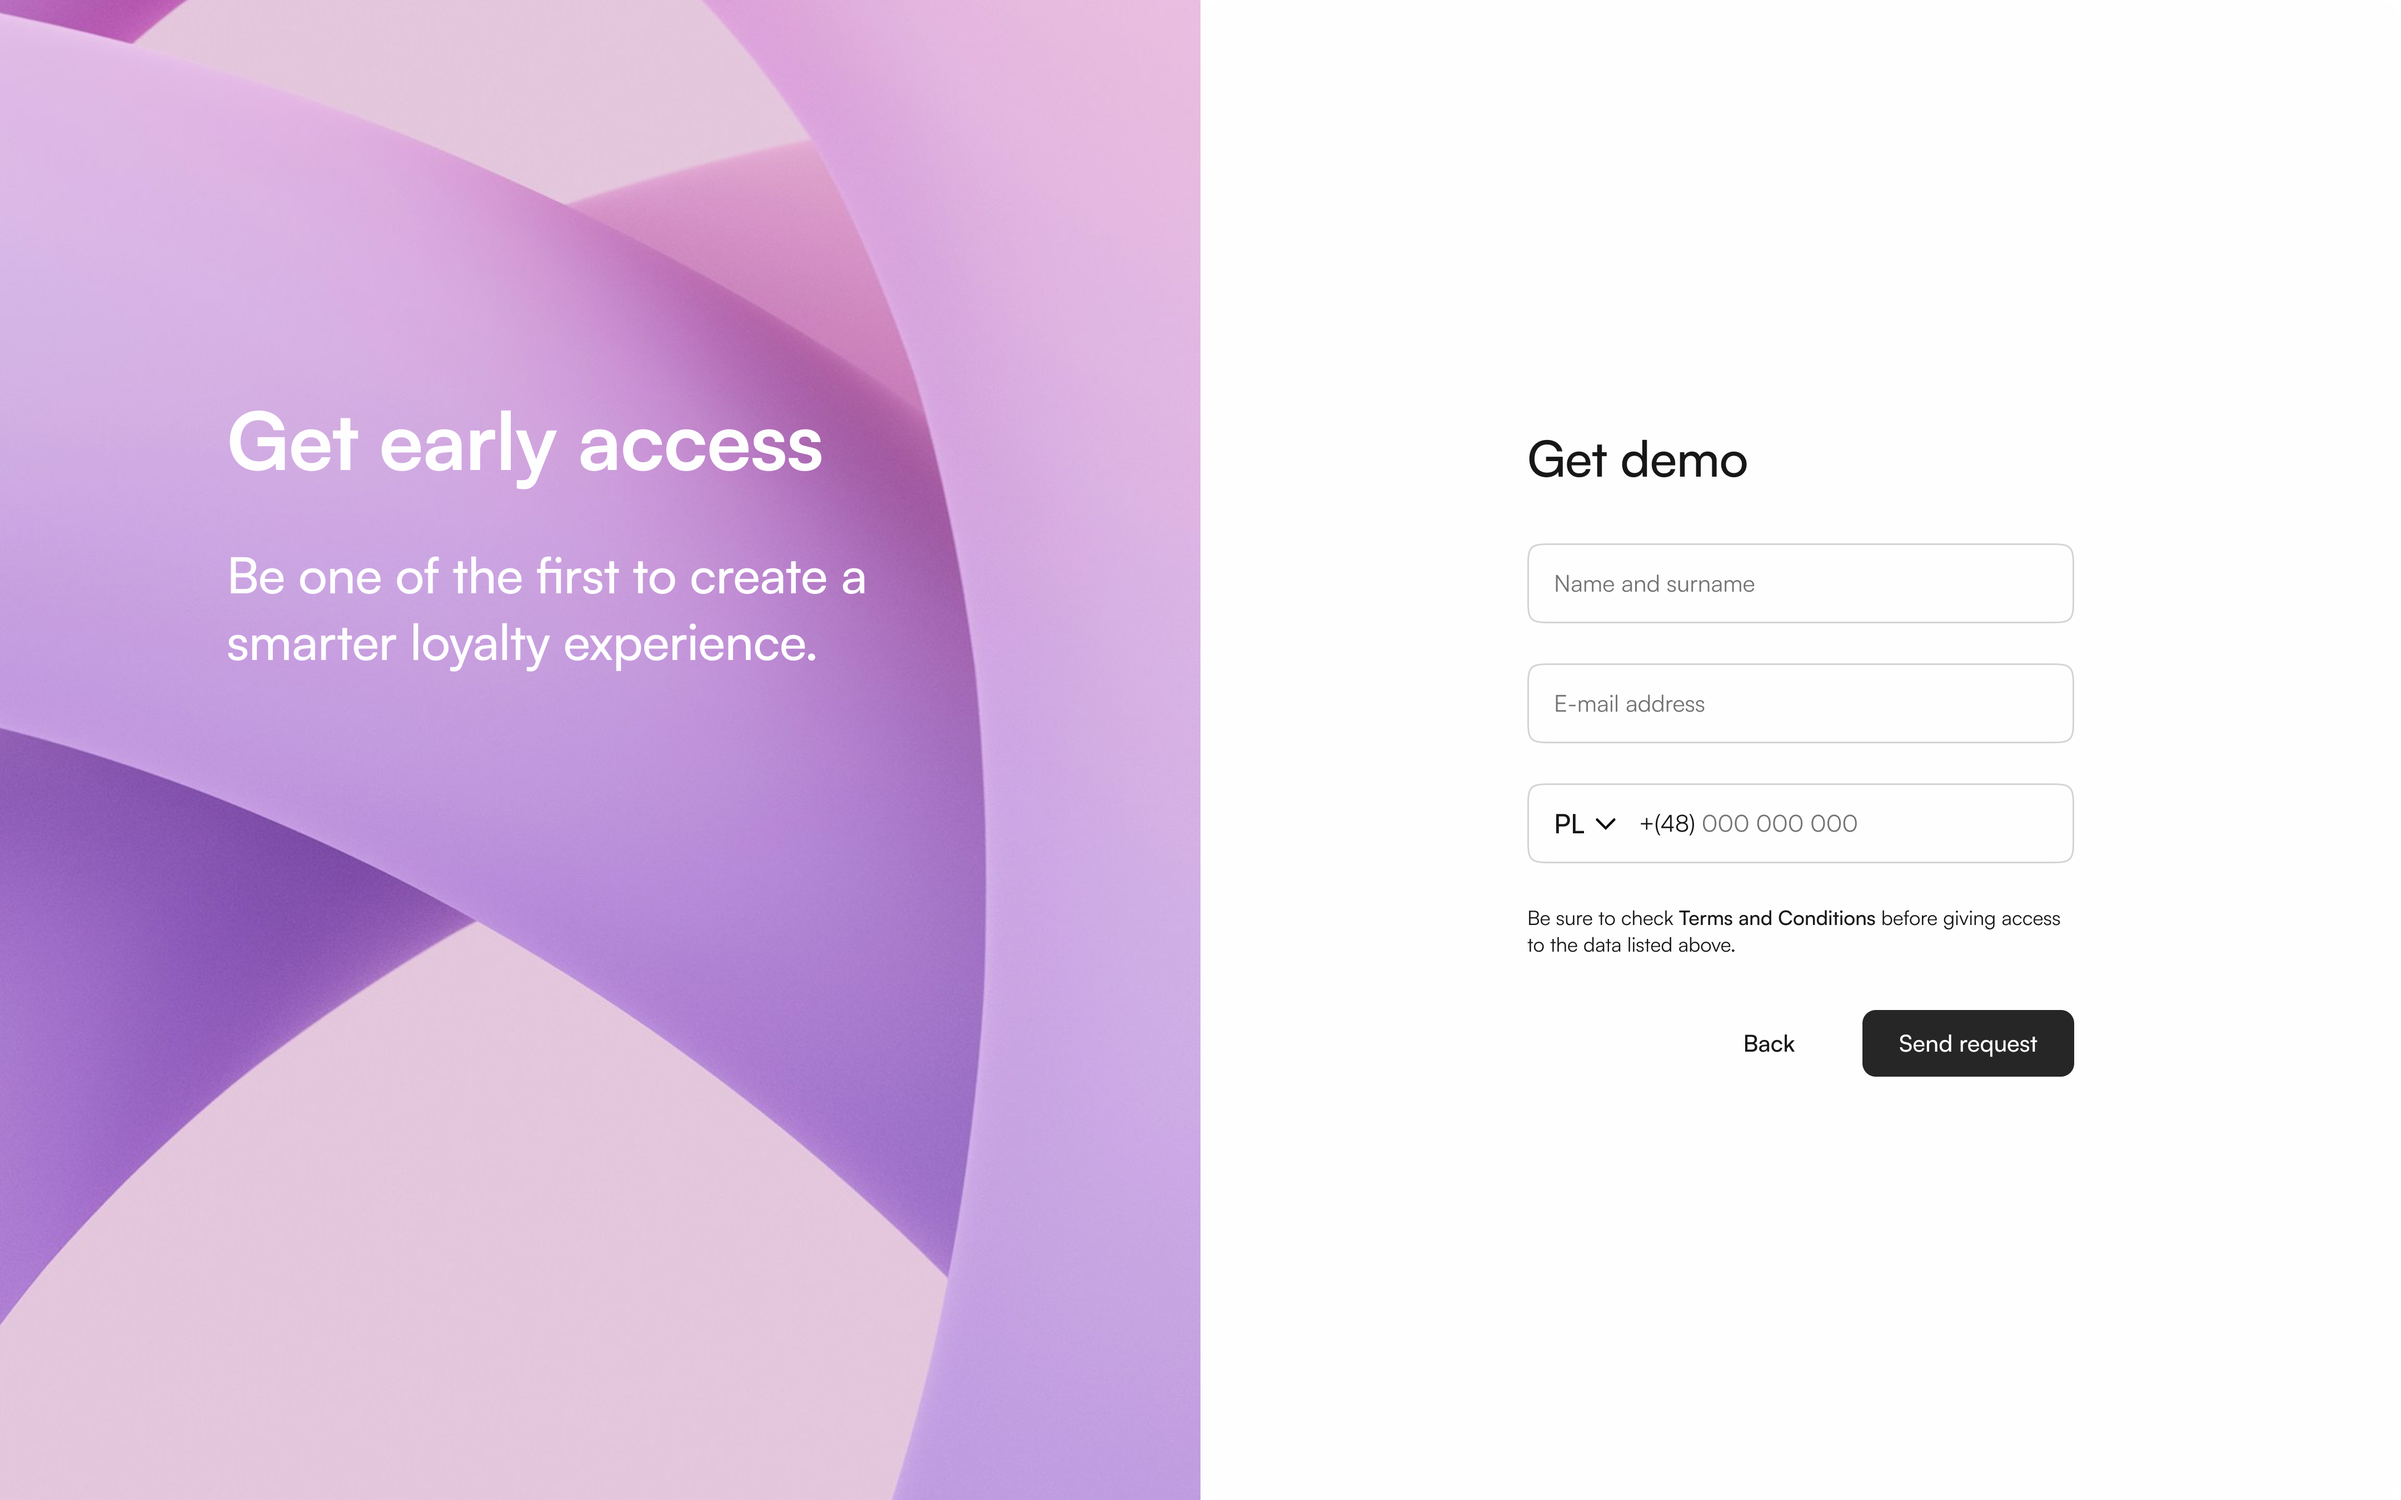
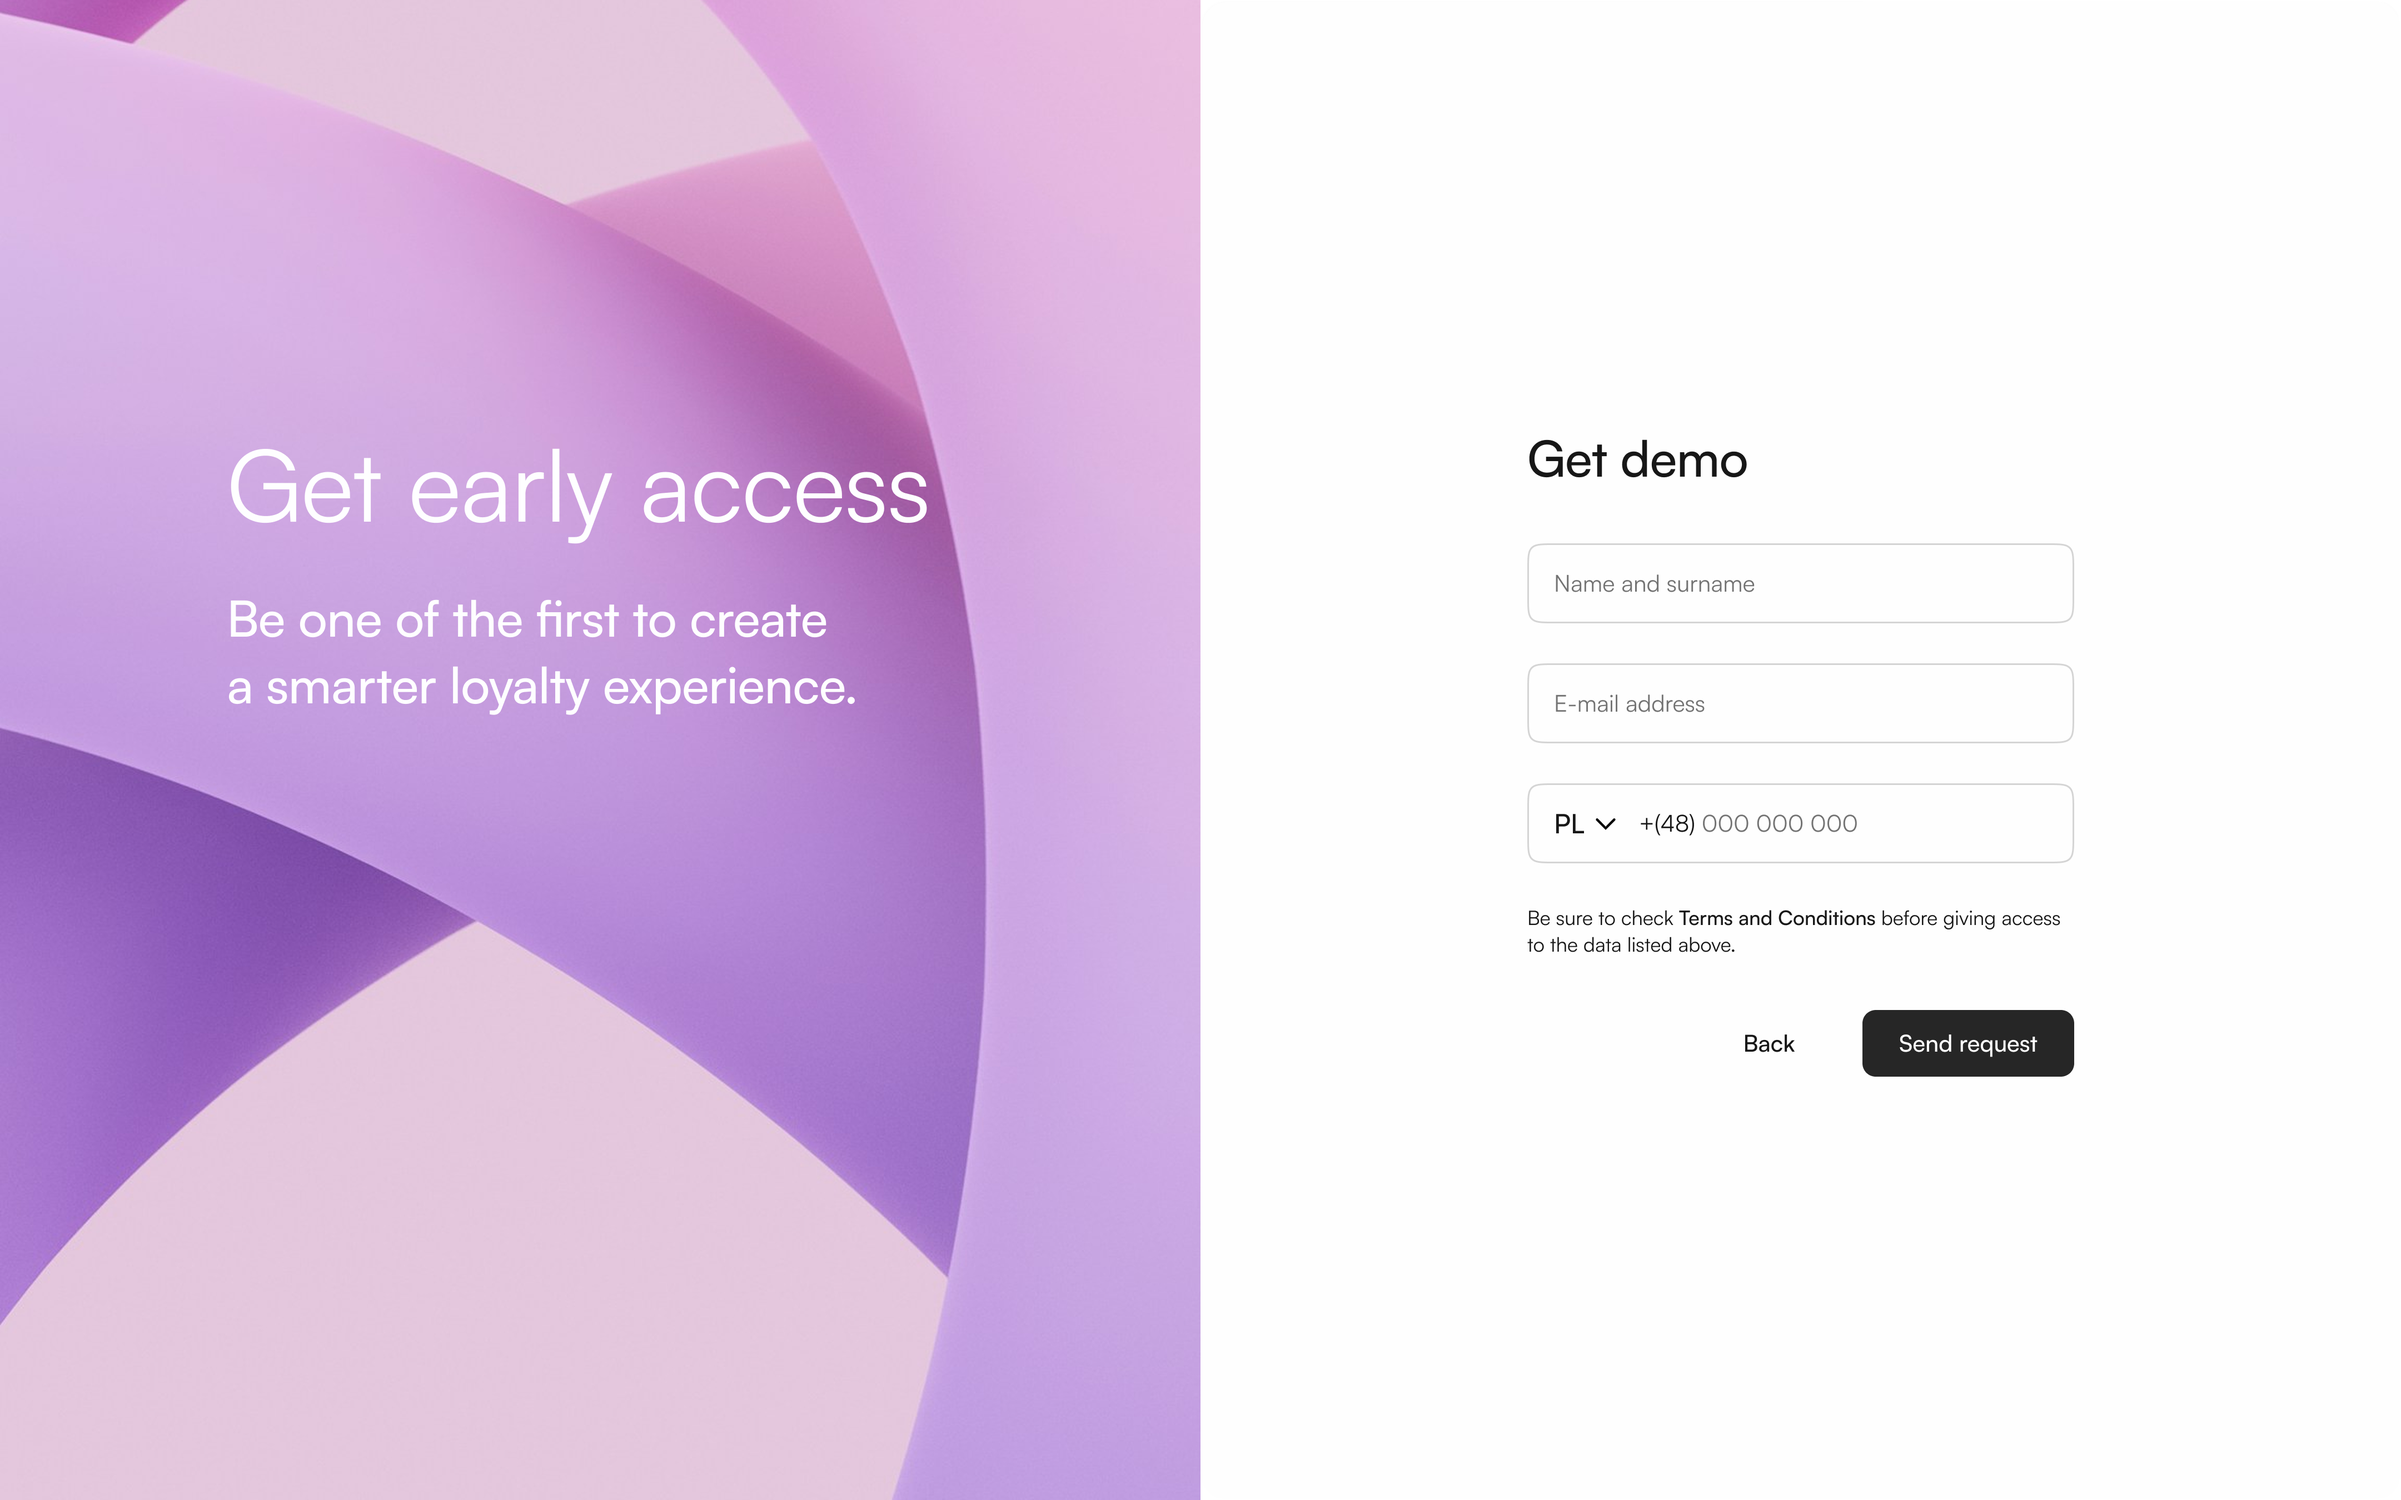
Update Loom program demo carousel screenshots.

Changed region(s): [[0.0938, 0.28, 0.4062, 0.4667]]

diff --git a/design-system.html b/design-system.html
@@ -108,16 +108,16 @@
           <div class="design-carousel__viewport" tabindex="0" role="region" aria-roledescription="carousel" aria-label="Loom Loyalty product screens">
             <div class="design-carousel__track">
                                           <figure class="design-carousel__slide is-active" data-caption="Install">
-                <img src="images/design-system/carusel/1.png?v=2" alt="Shopify app install and permissions" width="2560" height="1600" loading="lazy" decoding="async" />
+                <img src="images/design-system/carusel/1.png?v=3" alt="Shopify app install and permissions" width="2560" height="1600" loading="lazy" decoding="async" />
               </figure>
               <figure class="design-carousel__slide" data-caption="Create account">
-                <img src="images/design-system/carusel/2.png?v=3" alt="Workspace signup for the store" width="2560" height="1600" loading="lazy" decoding="async" />
+                <img src="images/design-system/carusel/2.png?v=4" alt="Workspace signup for the store" width="2560" height="1600" loading="lazy" decoding="async" />
               </figure>
               <figure class="design-carousel__slide" data-caption="Onboarding">
-                <img src="images/design-system/carusel/3.png?v=2" alt="Orient to studio, widget, dashboard, and AI chat" width="2560" height="1600" loading="lazy" decoding="async" />
+                <img src="images/design-system/carusel/3.png?v=3" alt="Orient to studio, widget, dashboard, and AI chat" width="2560" height="1600" loading="lazy" decoding="async" />
               </figure>
               <figure class="design-carousel__slide" data-caption="Request form">
-                <img src="images/design-system/carusel/4.png?v=2" alt="Request form for the loyalty program" width="2560" height="1600" loading="lazy" decoding="async" />
+                <img src="images/design-system/carusel/4.png?v=3" alt="Request form for the loyalty program" width="2560" height="1600" loading="lazy" decoding="async" />
               </figure>
             </div>
           </div>
